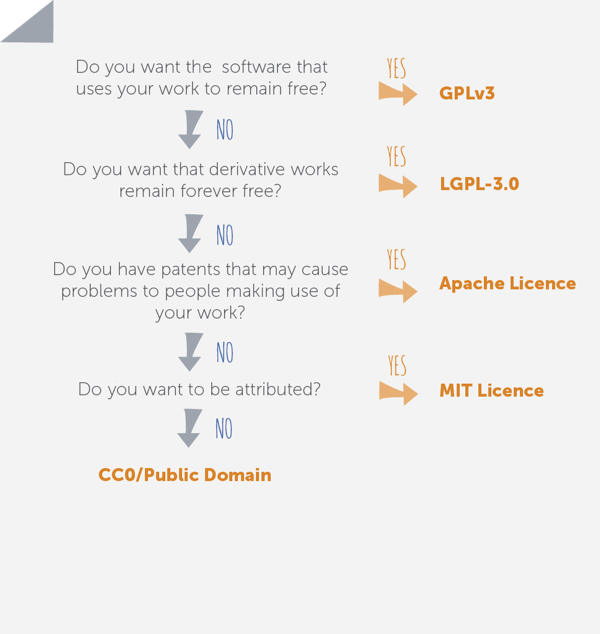
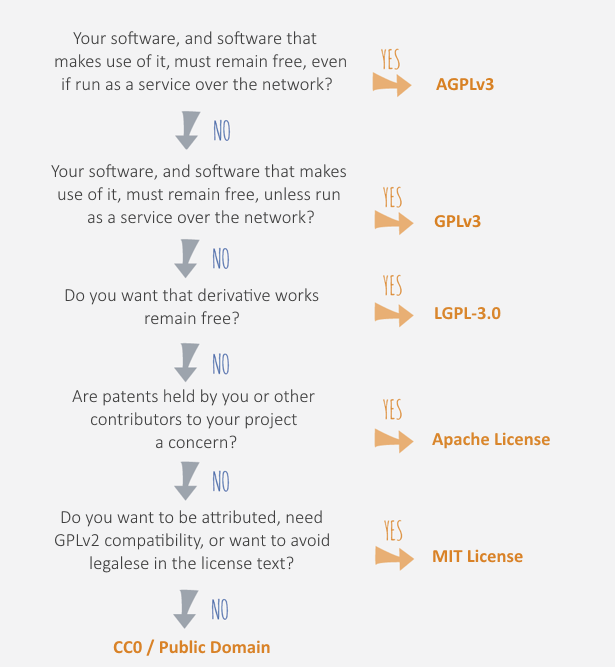
Issues #64, #65, #66 - pic re-drawn with Paint.net

diff --git a/_includes/choose.md b/_includes/choose.md
@@ -1,13 +1,20 @@
 Which license to choose?
 ------------------------
 
-Creative Commons organization has released copyright licenses to allow you to easily define how people can make use of your creative work. CC is split into multiple licenses based on what you want to permit. It is widely used for pictures, music, videos and academic material and has been dubbed as 'some rights reserved' copyrights.
+Our advice here applies primarily to software. If you have something else in mind, such as pictures, music or such, please check out the [Creative Commons](/creative-commons) section.
+
+This may be a good starting point, but you really want to read a bit about the licenses before making any final decisions. Some good resources for that include:
+
+* [GitHub's license choosing site](http://choosealicense.com/)
+* [Licenses that comply with the Open Source Definition](http://opensource.org/licenses)
+
+Here's how we roll:
 
 ![Choosing an open source license](/assets/img/choosinglicence.png "Choose")
 
 Can I use this work?
 --------------------
 
-Creative Commons organization has released copyright licenses to allow you to easily define how people can make use of your creative work. CC is split into multiple licenses based on what you want to permit. It is widely used for pictures, music, videos and academic material and has been dubbed as 'some rights reserved' copyrights.
+It is very important to know if you can use some work. Please consider at least these points:
 
 ![Using creative work](/assets/img/using.png "Use")
